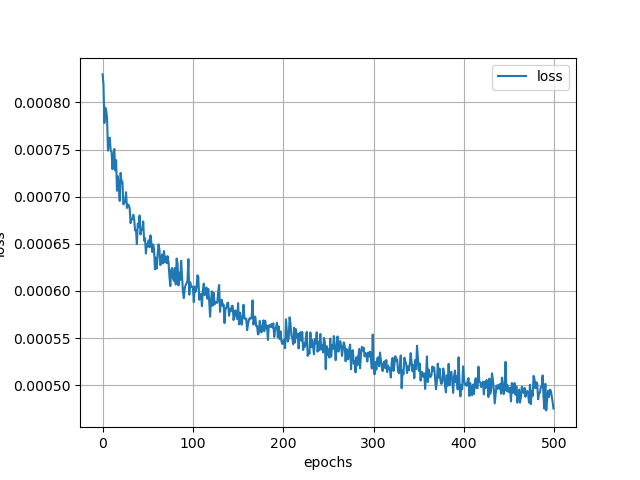
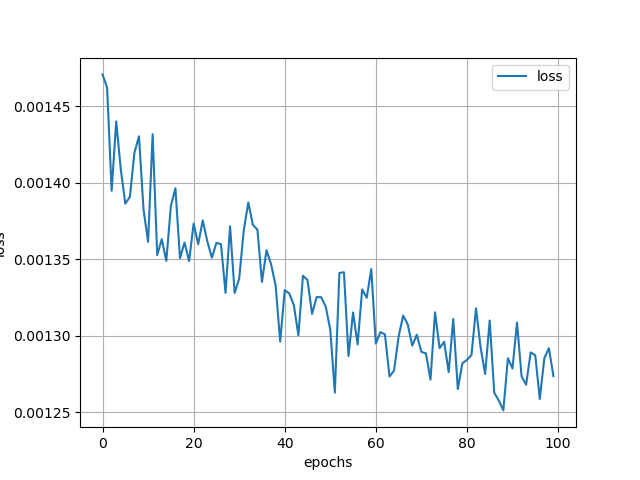
Fuzzy

diff --git a/Transfer_Learning.py b/Transfer_Learning.py
@@ -18,7 +18,7 @@ from skfuzzy.membership import trimf
 from niapy.task import Task, OptimizationType
 from niapy.problems import Problem
 from niapy.algorithms.basic import OppositionVelocityClampingParticleSwarmOptimization
-
+from sklearn.model_selection import KFold
 save_path = 'D:\Artificial_intelligence'
 
 
@@ -133,81 +133,51 @@ def plot_residuals(y: object, y_pred: object, model_name: object) -> object:
 
 def membership_function(data, ranges):
     zz = None
-    for j in range(len(data[0])):
+    data_fuzzy = np.copy(data)
+    for j in range(len(data_fuzzy[0])):
         data_array = []
-        for i in data[:, j]:
+        for i in data_fuzzy[:, j]:
             if i <= ranges[0]:
                 data_array.append([1, 0, 0])
-            if ranges[0] < i < ranges[1]:
+            elif ranges[0] < i < ranges[1]:
                 data_array.append(
                     [((0 - 1) / (ranges[1] - ranges[0])) * (i - ranges[0]) + 1, ((1 - 0) / (ranges[1] - ranges[0])) *
                      (i - ranges[0]), 0])
-            if i == ranges[1]:
+            elif i == ranges[1]:
                 data_array.append([0, 1, 0])
-            if ranges[1] < i < ranges[2]:
+            elif ranges[1] < i < ranges[2]:
                 data_array.append(
                     [0, ((0 - 1) / (ranges[2] - ranges[1])) * (i - ranges[1]) + 1, ((1 - 0) / (ranges[2] - ranges[1])) *
                      (i - ranges[1])])
-            if i >= ranges[2]:
+            else:
                 data_array.append([0, 0, 1])
         if zz is None:
             zz = data_array
         else:
             zz = np.hstack((zz, data_array))
-    return zz
+    zz1 = np.copy(zz)
+    return zz1
 
 
-global data_x, data_y
-
-test_x = []
-test_y = []
-df = pd.read_csv('bmw.csv')
-labelencoder = LabelEncoder()
-df['model'] = labelencoder.fit_transform(df['model'])
-df['transmission'] = labelencoder.fit_transform(df['transmission'])
-df['fuelType'] = labelencoder.fit_transform(df['fuelType'])
-
-data = df.values
-data = data.astype('float')
-data_x1, data_y, data_x2 = np.hsplit(data, [2, 3])
-data_x = np.hstack([data_x1, data_x2])
-scalex = MinMaxScaler(feature_range=(0, 1))
-data_x = scalex.fit_transform(data_x)
-scaley = MinMaxScaler(feature_range=(0, 1))
-data_y = scaley.fit_transform(data_y)
-data_y = data_y.reshape(-1, )
-
-
-def run(sol):
-    global data_x, data_y
-    data_x_fuzzy = membership_function(data_x, [sol[0], sol[0]+sol[1], sol[0]+sol[1]+sol[2]])
-    pre_x = data_x_fuzzy[0: 5000]
-    pre_y = data_y[0: 5000]
-
-    train_x = data_x_fuzzy[5000: 9000]
-    train_y = data_y[5000: 9000]
-
-    # test_train_x = data_x[0: 9000]
-    # test_train_y = data_y[0: 9000]
-
-    test_x = data_x_fuzzy[9000:]
-    test_y = data_y[9000:]
+def trensfer_learning_model(pre_x, pre_y, train_x_t, train_y_t):
     base_model = Sequential()
-
     inputs = Input(shape=(24, 1))
 
-    x = Conv1D(filters=64, kernel_size=1, activation='relu')(inputs)
+    x = Conv1D(filters=96, kernel_size=3, activation='relu')(inputs)
     x = MaxPool1D(1)(x)
-    x = Conv1D(filters=64, kernel_size=1, activation='relu')(x)
+    x = Conv1D(filters=96, kernel_size=3, activation='relu')(x)
     x = MaxPool1D(1)(x)
-    x = Conv1D(filters=64, kernel_size=1, activation='relu')(x)
+    x = Conv1D(filters=96, kernel_size=3, activation='relu')(x)
     x = MaxPool1D(1)(x)
+    x = Flatten()(x)
     x = Dropout(0.2)(x)
 
-    y = Dense(64, activation='relu')(inputs)
+
+    y = Dense(72, activation='relu')(inputs)
     y = Dropout(0.2)(y)
-    y = Dense(64, activation='relu')(y)
+    y = Dense(72, activation='relu')(y)
     y = Dropout(0.2)(y)
+    y = Flatten()(y)
     z = Add()([x, y])
     z = Flatten()(z)
     z = Dense(8, activation='relu')(z)
@@ -215,7 +185,7 @@ def run(sol):
 
     base_model = tf.keras.Model(inputs=inputs, outputs=outputs)
     base_model.compile(loss='mse', optimizer='adam', metrics=['mse'])
-    base_model.fit(pre_x, pre_y, batch_size=32, epochs=10, verbose=1)
+    base_model.fit(pre_x, pre_y, batch_size=32, epochs=100, verbose=0)
 
     for layer in base_model.layers:
         layer.trainable = False
@@ -229,20 +199,51 @@ def run(sol):
     model = Model(inputs=base_model.inputs, outputs=outputs)
 
     model.compile(loss='mse', optimizer='adam', metrics=['mse'])
-    model.fit(train_x, train_y, epochs=10, batch_size=32, verbose=1)
+    model.fit(train_x_t, train_y_t, epochs=100, batch_size=32, verbose=0)
 
     for layer in model.layers:
         layer.trainable = True
-
     initial_learning_rate = 1e-5
-    # model.compile(loss='mse', optimizer='adam', metrics=['mse'])
-    model.summary()
     model.compile(optimizer=Adam(learning_rate=initial_learning_rate), loss='mse', metrics=["mse"])
-    history = model.fit(train_x, train_y, batch_size=32, epochs=100, validation_data=[test_x, test_y], verbose=1)
-    predict = model.predict(test_x)
-    score = r2_score(test_y, predict)
+
+    return model
+
+
+df = pd.read_csv('bmw.csv')
+labelencoder = LabelEncoder()
+df['model'] = labelencoder.fit_transform(df['model'])
+df['transmission'] = labelencoder.fit_transform(df['transmission'])
+df['fuelType'] = labelencoder.fit_transform(df['fuelType'])
+
+data1 = df.values
+data1 = data1.astype('float')
+data_x1, data_y, data_x2 = np.hsplit(data1, [2, 3])
+data_x = np.hstack([data_x1, data_x2])
+scalex = MinMaxScaler(feature_range=(0, 1))
+data_x = scalex.fit_transform(data_x)
+scaley = MinMaxScaler(feature_range=(0, 1))
+data_y = scaley.fit_transform(data_y)
+data_y = data_y.reshape(-1, )
+
+c = 0
+def run(sol):
     tf.keras.backend.clear_session()
-    return score, history, predict, test_y
+    global train_x, train_y, c
+    c += 1
+    data_x_fuzzy = membership_function(train_x, [sol[0], sol[0] + sol[1], sol[0] + sol[1] + sol[2]])
+    pre_x_r, train_x_r, test_x_r = data_x_fuzzy[0: int(len(data_x_fuzzy) * 0.5)], \
+                                   data_x_fuzzy[int(len(data_x_fuzzy) * 0.5): int(len(data_x_fuzzy) * 0.8)], \
+                                   data_x_fuzzy[int(len(data_x_fuzzy) * 0.8)::]
+    pre_y_r, train_y_r, test_y_r = train_y[0: int(len(train_y) * 0.5)], \
+                                   train_y[int(len(train_y) * 0.5): int(len(train_y) * 0.8)], \
+                                   train_y[int(len(train_y) * 0.8)::]
+    model = trensfer_learning_model(pre_x_r, pre_y_r, train_x_r, train_y_r)
+
+    his = model.fit(train_x_r, train_y_r, batch_size=32, epochs=500, validation_data=[test_x_r, test_y_r], verbose=0)
+    predict = model.predict(test_x_r)
+    score = r2_score(test_y_r, predict)
+    print(c)
+    return score, model, his
 
 
 class My_Problem(Problem):
@@ -250,28 +251,86 @@ class My_Problem(Problem):
         Problem.__init__(self, dimension, lower, upper)
         self.best_score = 0
         self.best_history = []
-        self.best_predict = []
-        self.test = []
+        self.best_model = []
 
     def _evaluate(self, sol):
-        val, history, predict, test = run(sol)
-        self.test = np.copy(test)
+        val, model_n, his = run(sol)
         if self.best_score < val:
             self.best_score = val
-            self.best_history = np.copy(history)
-            self.best_predict = np.copy(predict)
+            self.best_model = model_n
+            self.best_history = his
         return val
 
 
 my_problem = My_Problem(dimension=3)
 iteration = 20
 particle = 5
+kf = KFold(n_splits=10, shuffle=True)
 
-task = Task(problem=my_problem, max_iters=iteration, optimization_type=OptimizationType.MAXIMIZATION,
-            enable_logging=True)
-algo = OppositionVelocityClampingParticleSwarmOptimization(population_size=particle)
-best = algo.run(task)
+for train_idx, test_idx in kf.split(data_x):
+    global train_x, train_y
+    train_x, test_x = data_x[train_idx], data_x[test_idx]
+    train_y, test_y = data_y[train_idx], data_y[test_idx]
 
-# plot_history(my_problem.best_history, 'Transfer_learning')
-plot_pred(my_problem.test, my_problem.best_predict, 'Transfer_learning')
-plot_residuals(my_problem.test, my_problem.best_predict, 'Transfer_learning')
+    task = Task(problem=my_problem, max_iters=iteration, optimization_type=OptimizationType.MAXIMIZATION,
+                enable_logging=True)
+    algo = OppositionVelocityClampingParticleSwarmOptimization(population_size=particle)
+    best = algo.run(task)
+
+    train_data_fuzzy = membership_function(train_x, best[0])
+    test_data_fuzzy = membership_function(test_x, best[0])
+    pre_x, train_x = train_data_fuzzy[0: int(len(train_data_fuzzy) * 0.8)], \
+                     train_data_fuzzy[int(len(train_data_fuzzy) * 0.8)::]
+    pre_y, train_y = train_y[0: int(len(train_y) * 0.8)], train_y[int(len(train_y) * 0.8)::]
+
+    base_model = Sequential()
+    inputs = Input(shape=(24, 1))
+
+    x = Conv1D(filters=96, kernel_size=3, activation='relu')(inputs)
+    x = MaxPool1D(1)(x)
+    x = Conv1D(filters=96, kernel_size=3, activation='relu')(x)
+    x = MaxPool1D(1)(x)
+    x = Conv1D(filters=96, kernel_size=3, activation='relu')(x)
+    x = MaxPool1D(1)(x)
+    x = Dropout(0.2)(x)
+    x = Flatten()(x)
+
+    y = Dense(72, activation='relu')(inputs)
+    y = Dropout(0.2)(y)
+    y = Dense(72, activation='relu')(y)
+    y = Dropout(0.2)(y)
+    y = Flatten()(y)
+    z = Add()([x, y])
+    z = Flatten()(z)
+    z = Dense(8, activation='relu')(z)
+    outputs = Dense(1, activation='relu')(z)
+
+    base_model = tf.keras.Model(inputs=inputs, outputs=outputs)
+    base_model.compile(loss='mse', optimizer='adam', metrics=['mse'])
+    base_model.fit(pre_x, pre_y, batch_size=32, epochs=100, verbose=1)
+
+    for layer in base_model.layers:
+        layer.trainable = False
+
+    base_model1 = base_model.layers[-2].output
+    x = base_model1
+    x = Dense(8)(x)
+    x = Dense(4)(x)
+    x = Dense(2)(x)
+    outputs = Dense(1)(x)
+    model = Model(inputs=base_model.inputs, outputs=outputs)
+
+    model.compile(loss='mse', optimizer='adam', metrics=['mse'])
+    model.fit(train_x, train_y, epochs=100, batch_size=32, verbose=1)
+
+    for layer in model.layers:
+        layer.trainable = True
+    initial_learning_rate = 1e-5
+    model.compile(optimizer=Adam(learning_rate=initial_learning_rate), loss='mse', metrics=["mse"])
+    his = model.fit(train_x, train_y, batch_size=32, epochs=500, validation_data=[test_x, test_y], verbose=1)
+    predict = model.predict(test_x)
+    print(predict.shape)
+    print(test_y.shape)
+    plot_history(his, 'Transfer_learning')
+    plot_pred(test_y, predict, 'Transfer_learning')
+    plot_residuals(test_y, predict, 'Transfer_learning')

diff --git a/cnn1D.py b/cnn1D.py
@@ -1,21 +1,13 @@
 import numpy as np
 import pandas as pd
-import matplotlib.pyplot as plt
-import tensorflow as tf
-from tensorflow.keras.layers import Dense, Dropout, Input, Flatten, Add, Conv1D, MaxPooling1D
-from tensorflow.keras.models import Sequential
-from sklearn.metrics import mean_absolute_percentage_error, mean_squared_error
-from sklearn.preprocessing import MinMaxScaler
-from sklearn.model_selection import KFold
-from sklearn.preprocessing import LabelEncoder
+from sklearn.preprocessing import LabelEncoder, MinMaxScaler
 
-data_x = []
-data_y = []
 df = pd.read_csv('bmw.csv')
 labelencoder = LabelEncoder()
 df['model'] = labelencoder.fit_transform(df['model'])
 df['transmission'] = labelencoder.fit_transform(df['transmission'])
 df['fuelType'] = labelencoder.fit_transform(df['fuelType'])
+
 data = df.values
 data = data.astype('float')
 data_x1, data_y, data_x2 = np.hsplit(data, [2, 3])
@@ -26,29 +18,5 @@ scaley = MinMaxScaler(feature_range=(0, 1))
 data_y = scaley.fit_transform(data_y)
 data_y = data_y.reshape(-1, )
 
-
-kf = KFold(n_splits=10, shuffle=True)
-(x_train, x_test), (y_train, y_test) = np.split(data_x, [int(len(data_x) * 0.8)], axis=0), \
-                                       np.split(data_y, [int(len(data_y) * 0.8)], axis=0)
-
-model = Sequential()
-
-inputs = Input(shape=(8,1))
-x = Conv1D(filters=16, kernel_size=1, activation='relu', input_shape=(8, 1))(inputs)
-x = Conv1D(filters=8, kernel_size=1, activation='relu', input_shape=(8, 1))(x)
-x = Dropout(0.1)(x)
-
-
-y = Dense(16, activation='relu')(inputs)
-y = Dense(8, activation='relu')(y)
-y = Dropout(0.1)(y)
-print(y.shape)
-z = Add()([x, y])
-z = Flatten()(z)
-z = Dropout(0.1)(z)
-outputs = Dense(1, activation='relu')(x)
-
-model = tf.keras.Model(inputs=inputs, outputs=outputs)
-model.compile(loss='mse', optimizer='adam', metrics=['mse'])
-history = model.fit(x_train, y_train, batch_size=1, epochs=1, verbose=1)
-sorce = model.evaluate(x_test, y_test, batch_size=1, verbose=0)
+pre_x, train_x, test_x = data_x[0: int(len(data_x) * 0.5)], data_x[int(len(data_x) * 0.5): int(len(data_x) * 0.8)], \
+                         data_x[int(len(data_x) * 0.8)::]

diff --git a/membership.py b/membership.py
@@ -6,17 +6,17 @@ def membership_function(data, ranges):
         for i in data[:, j]:
             if i <= ranges[0]:
                 data_array.append([1, 0, 0])
-            if ranges[0] < i < ranges[1]:
+            elif ranges[0] < i < ranges[1]:
                 data_array.append(
                     [((0 - 1) / (ranges[1] - ranges[0])) * (i - ranges[0]) + 1, ((1 - 0) / (ranges[1] - ranges[0])) *
                      (i - ranges[0]), 0])
-            if i == ranges[1]:
+            elif i == ranges[1]:
                 data_array.append([0, 1, 0])
-            if ranges[1] < i < ranges[2]:
+            elif ranges[1] < i < ranges[2]:
                 data_array.append(
                     [0, ((0 - 1) / (ranges[2] - ranges[1])) * (i - ranges[1]) + 1, ((1 - 0) / (ranges[2] - ranges[1])) *
                      (i - ranges[1])])
-            if i >= ranges[2]:
+            else:
                 data_array.append([0, 0, 1])
         if zz is None:
             zz = data_array
